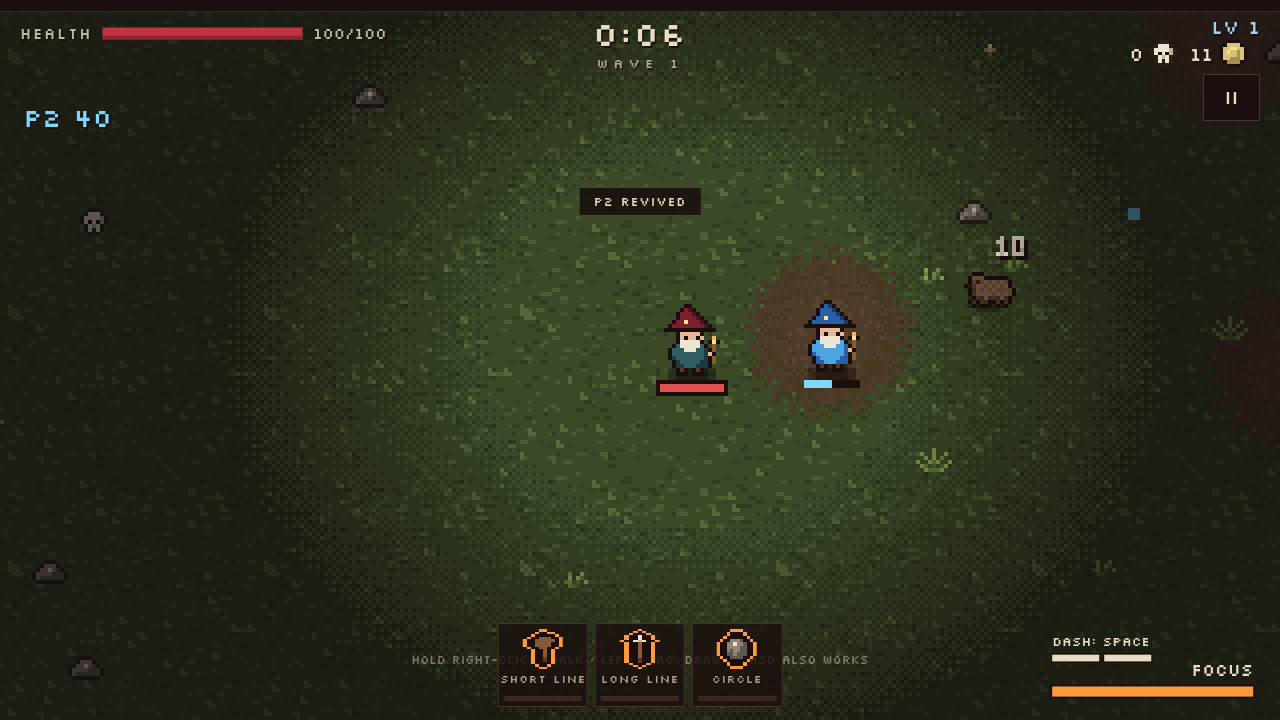
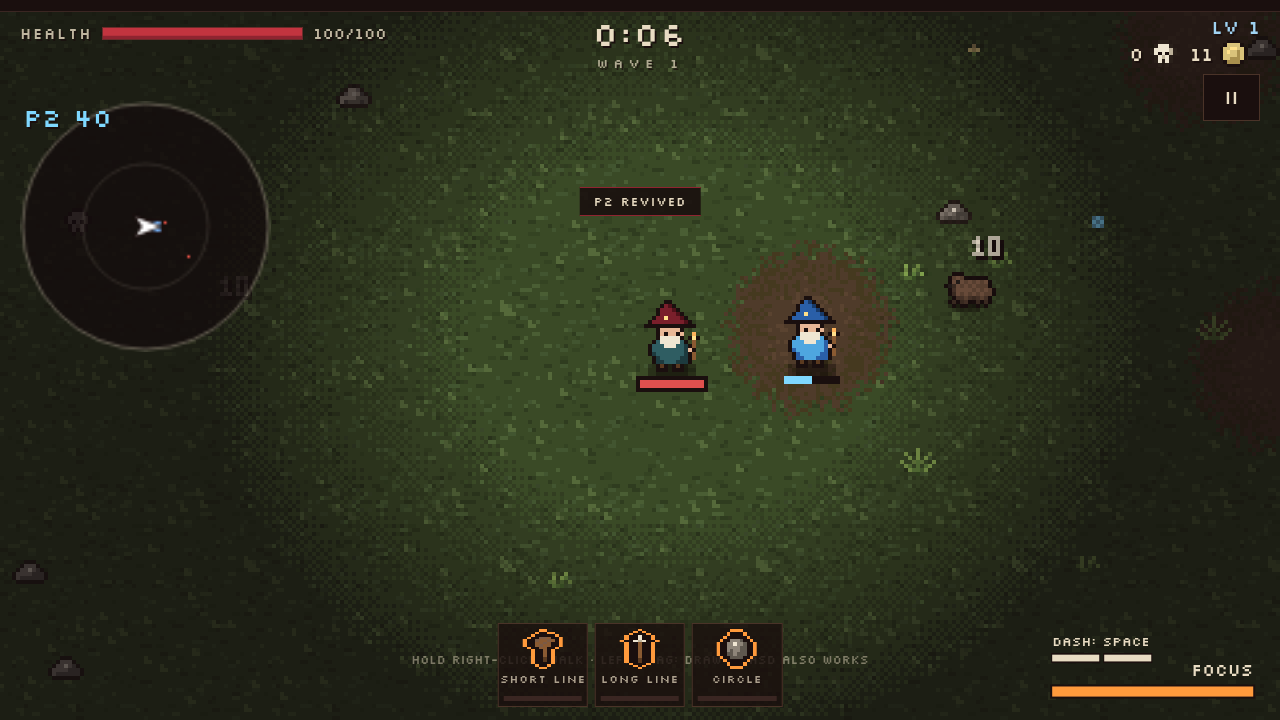
Minimap: corner radar with direction arrow, enemies, distinct bosses (edge-clamped), XP gems, chests, shrines, teammates; always on in multiplayer, Settings toggle for solo

diff --git a/minimap.js b/minimap.js
@@ -1,0 +1,34 @@
+'use strict';
+// ================= MINIMAP =================
+// Corner radar: you (direction arrow), teammates, enemies (bosses distinct), XP gems, chests, shrines.
+// Always on in multiplayer (same-screen co-op or LAN); optional in solo (Settings > Minimap).
+if(save.minimap==null)save.minimap=false;
+const MM_RANGE=900;
+function mmMulti(){return !!(G&&((G.allies&&G.allies.length)||G.lan))}
+function mmOn(){return mode==='run'&&G&&!G.paused&&(save.minimap||mmMulti())}
+let mmCv=null,mmX=null,mmF=0;
+function mmEl(){if(mmCv)return mmCv;mmCv=document.createElement('canvas');mmCv.id='minimap';mmCv.width=96;mmCv.height=96;mmX=mmCv.getContext('2d');$('hud').appendChild(mmCv);return mmCv}
+function mmDraw(){requestAnimationFrame(mmDraw);if(!mmOn()){if(mmCv)mmCv.style.display='none';return}const c=mmEl();c.style.display='';if((mmF++)&1)return;
+  const x=mmX,W2=48,k=W2/MM_RANGE,p=G.player,P=(o)=>[W2+(o.x-p.x)*k,W2+(o.y-p.y)*k],inb=(a)=>a[0]>=1&&a[0]<=95&&a[1]>=1&&a[1]<=95;
+  x.clearRect(0,0,96,96);x.fillStyle='rgba(20,11,12,.72)';x.beginPath();x.arc(48,48,47,0,6.283);x.fill();x.strokeStyle='rgba(233,220,195,.35)';x.lineWidth=1;x.stroke();
+  x.save();x.beginPath();x.arc(48,48,46,0,6.283);x.clip();
+  x.strokeStyle='rgba(233,220,195,.12)';x.beginPath();x.arc(48,48,24,0,6.283);x.stroke();
+  x.fillStyle='#5fd3e8';for(const o of G.orbs){const a=P(o);if(inb(a))x.fillRect(a[0]|0,a[1]|0,o.v>=10?2:1,o.v>=10?2:1)}
+  x.fillStyle='#ff5a4e';for(const e of G.enemies){if(e.T.boss)continue;const a=P(e);if(inb(a))x.fillRect(a[0]|0,a[1]|0,e.T.elite?2:1,e.T.elite?2:1)}
+  if(G.shrines)for(const s of G.shrines){const a=P(s);x.fillStyle='#c8bfb2';x.fillRect((a[0]|0)-1,(a[1]|0)-2,2,4)}
+  for(const ch of G.chests){const a=P(ch);x.fillStyle='#1a0f0e';x.fillRect((a[0]|0)-2,(a[1]|0)-2,5,5);x.fillStyle='#ffd34a';x.fillRect((a[0]|0)-1,(a[1]|0)-1,3,3)}
+  x.restore();
+  // bosses and allies: clamp to edge so you always know the direction
+  const edge=(a)=>{const dx=a[0]-48,dy=a[1]-48,d=Math.hypot(dx,dy);return d>43?[48+dx/d*43,48+dy/d*43]:a};
+  for(const e of G.enemies)if(e.T.boss){const a=edge(P(e));x.fillStyle='#1a0f0e';x.beginPath();x.arc(a[0],a[1],4.5,0,6.283);x.fill();x.fillStyle='#ff2e63';x.beginPath();x.arc(a[0],a[1],3.2,0,6.283);x.fill();x.strokeStyle='#ffd34a';x.stroke()}
+  const mates=[...(G.allies||[]),...((G.lan&&G.lan.peers)||[])];
+  mates.forEach((q,i)=>{const a=edge(P(q));x.fillStyle='#1a0f0e';x.fillRect(a[0]-3,a[1]-3,6,6);x.fillStyle=q.down?'#777':['#7ab8ff','#8fe07a','#ffb13a','#c48cff'][i%4];x.fillRect(a[0]-2,a[1]-2,4,4)});
+  // you: arrow pointing where you face / move
+  const f=p.face||0;x.save();x.translate(48,48);x.rotate(f);x.fillStyle='#1a0f0e';x.beginPath();x.moveTo(7,0);x.lineTo(-5,-5);x.lineTo(-2,0);x.lineTo(-5,5);x.closePath();x.fill();
+  x.fillStyle='#ffffff';x.beginPath();x.moveTo(5.5,0);x.lineTo(-3.6,-3.6);x.lineTo(-1.2,0);x.lineTo(-3.6,3.6);x.closePath();x.fill();x.restore()}
+requestAnimationFrame(mmDraw);
+// Settings toggle (appended to the Accessibility block / settings sheet)
+const _mmSettings=settings;settings=function(inRun){_mmSettings(inRun);const host=screenEl.querySelector('.a11y')||screenEl.querySelector('.sheet');if(!host)return;
+  const b=document.createElement('button');b.id='mmBtn';b.innerHTML=`<b>MM</b>Minimap (solo)<span>${save.minimap?'On':'Off'}</span><i>&rarr;</i>`;host.appendChild(b);
+  const n=document.createElement('p');n.className='sh';n.textContent='The minimap is always shown in multiplayer.';host.appendChild(n);
+  b.onclick=()=>{save.minimap=!save.minimap;persist();b.querySelector('span').textContent=save.minimap?'On':'Off'}};

diff --git a/sw.js b/sw.js
@@ -1,7 +1,7 @@
 // Era Draw service worker: cache-first, versioned. Bump VERSION on every release.
-const VERSION='eradraw-20261014170644';
+const VERSION='eradraw-20261014170923';
 const ASSETS=['./','index.html','style.css','fonts/fonts.css','manifest.webmanifest','icon.svg','icons/icon-180.png','icons/icon-192.png','fonts/Silkscreen-400.woff2','fonts/Silkscreen-700.woff2','fonts/VT323-400.woff2','fonts/InstrumentSerif-400.woff2',
- 'audio.js','sprites.js','enemies.js','forge.js','game.js','eras.js','meta.js','platform.js','progression.js','cave.js','ink.js','iron.js','bosses.js','social.js','coop.js','mythic.js','polish.js','dev.js','main.js'];
+ 'audio.js','sprites.js','enemies.js','forge.js','game.js','eras.js','meta.js','platform.js','progression.js','cave.js','ink.js','iron.js','bosses.js','social.js','coop.js','mythic.js','polish.js','minimap.js','dev.js','main.js'];
 self.addEventListener('install',e=>{e.waitUntil(caches.open(VERSION).then(c=>c.addAll(ASSETS)).then(()=>self.skipWaiting()))});
 self.addEventListener('activate',e=>{e.waitUntil(caches.keys().then(ks=>Promise.all(ks.filter(k=>k!==VERSION).map(k=>caches.delete(k)))).then(()=>self.clients.claim()))});
 self.addEventListener('fetch',e=>{const r=e.request;if(r.method!=='GET'||new URL(r.url).origin!==location.origin)return;

diff --git a/style.css b/style.css
@@ -225,3 +225,5 @@ body.hc #hud{text-shadow:0 0 2px #000,0 0 2px #000}
 #quest{top:calc(54px * var(--hud,1));font-size:min(calc(13px * var(--hud,1)),14px);line-height:1.2;padding:0 6px;max-width:min(46vw,360px);overflow:hidden;text-overflow:ellipsis;pointer-events:none}
 #quest b{font-size:.62em}
 html.small #quest{font-size:12px;top:calc(46px * var(--hud,1));max-width:52vw}
+#minimap{position:absolute;left:calc(12px + env(safe-area-inset-left));top:calc(36px * var(--hud,1));width:min(calc(96px * var(--hud,1)),150px);height:min(calc(96px * var(--hud,1)),150px);pointer-events:none;image-rendering:auto}
+html.small #minimap{width:calc(64px * var(--hud,1));height:calc(64px * var(--hud,1));top:calc(30px * var(--hud,1))}

diff --git a/index.html b/index.html
@@ -49,6 +49,7 @@
 <script src="coop.js"></script>
 <script src="mythic.js"></script>
 <script src="polish.js"></script>
+<script src="minimap.js"></script>
 <script src="dev.js"></script>
 <script src="main.js"></script>
 </body></html>
